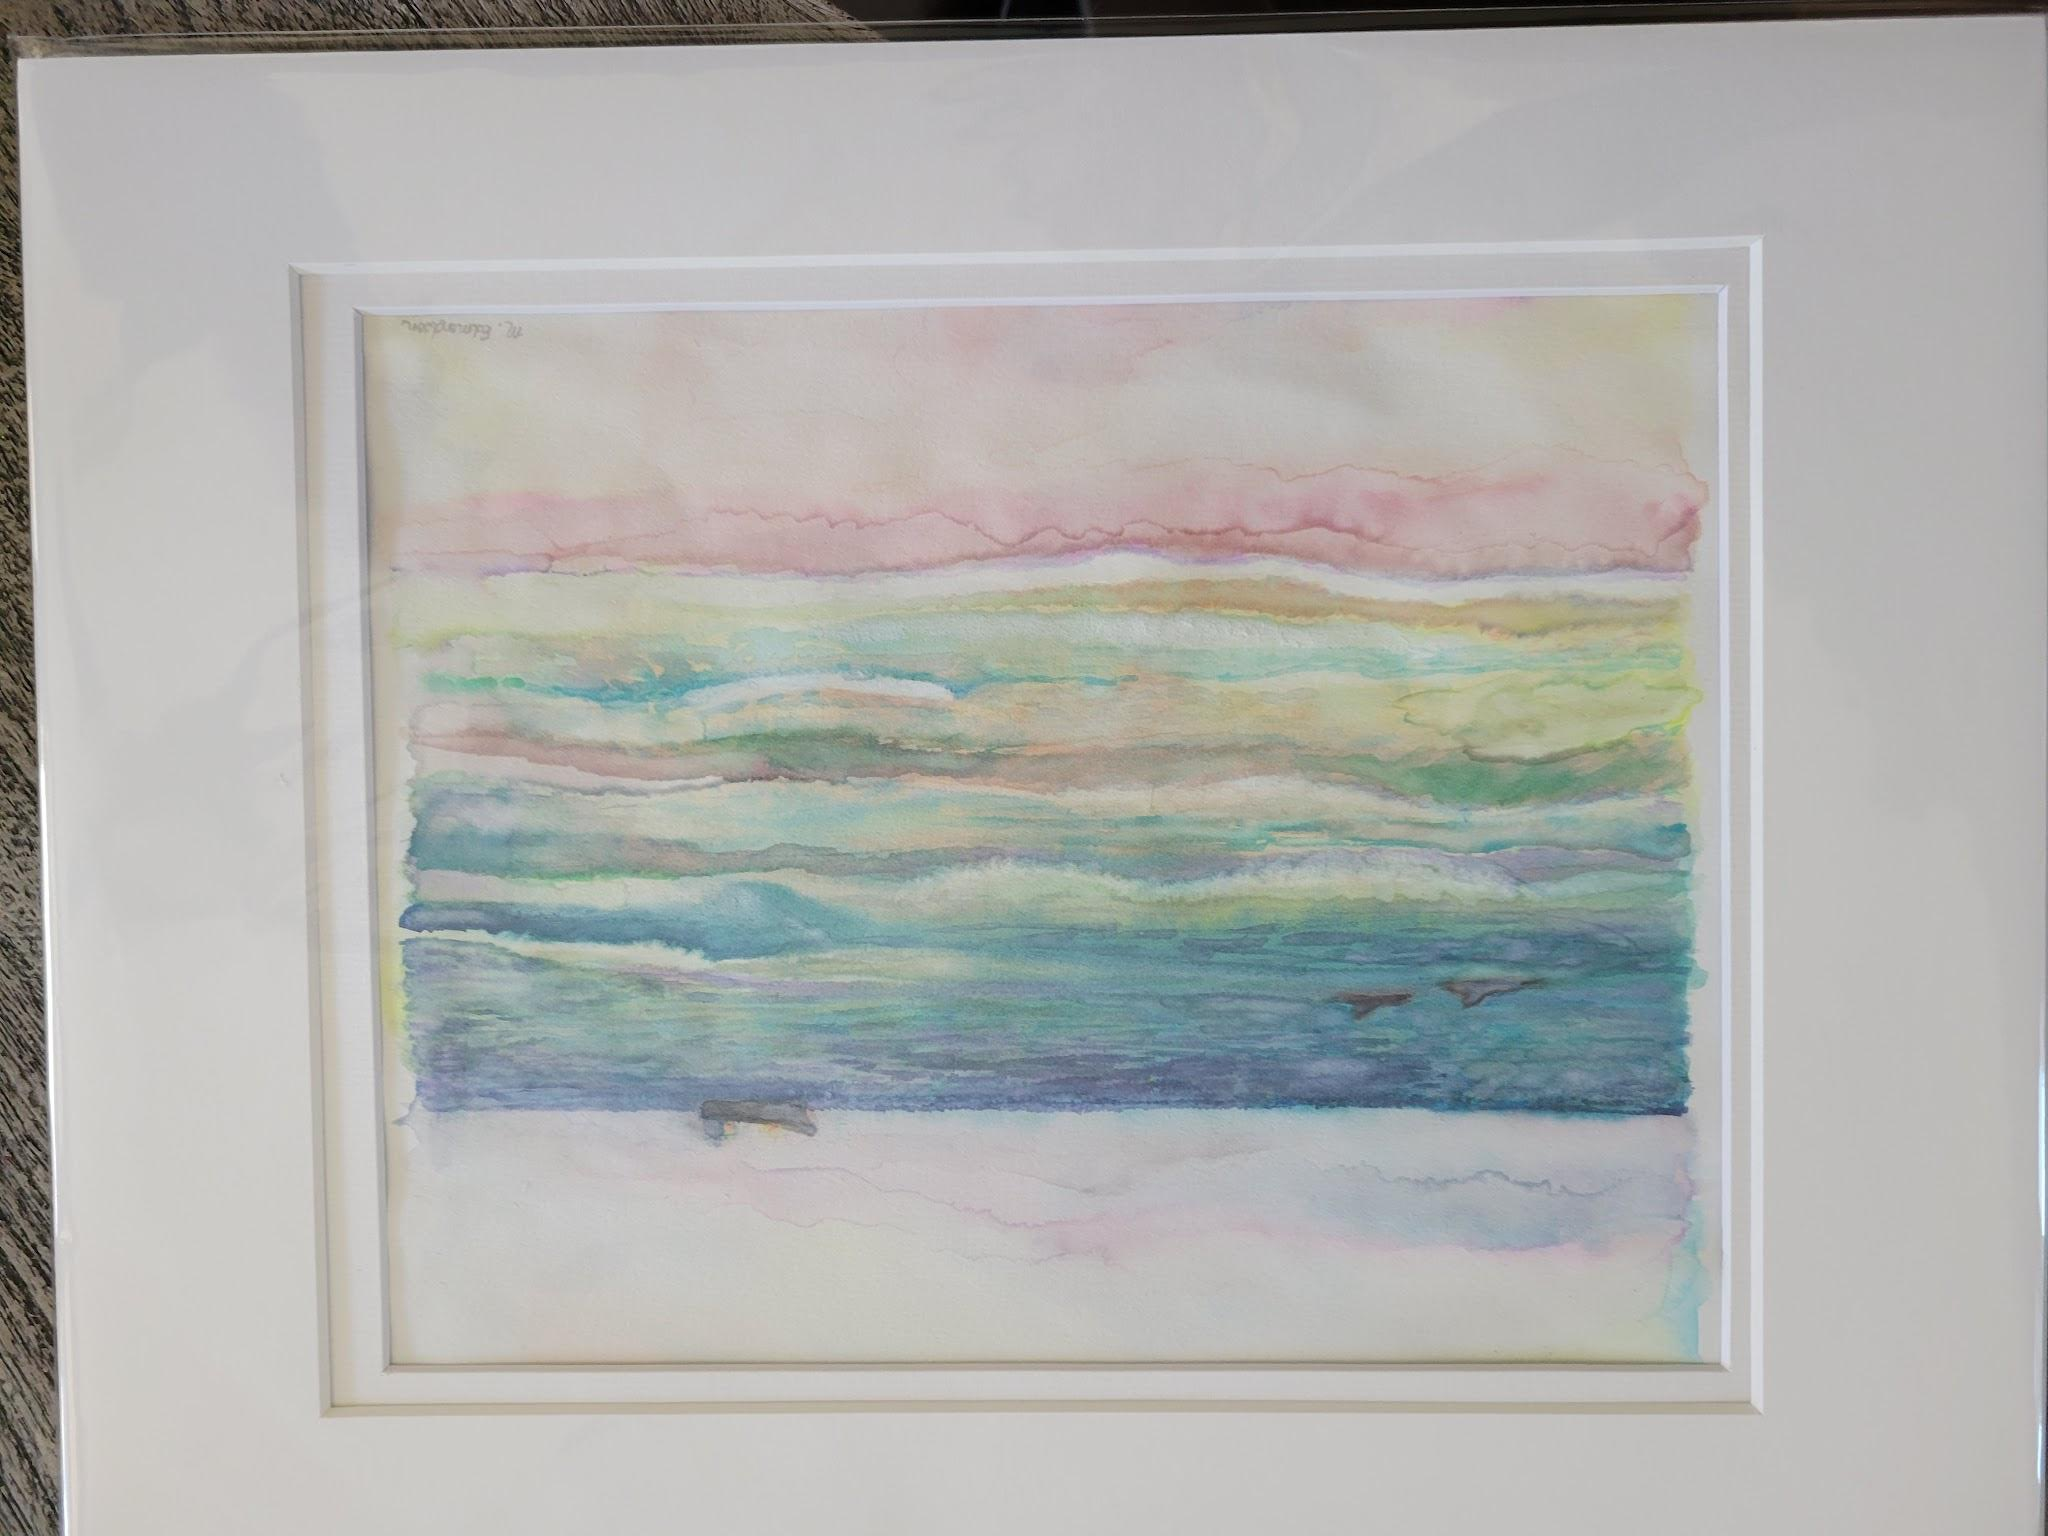
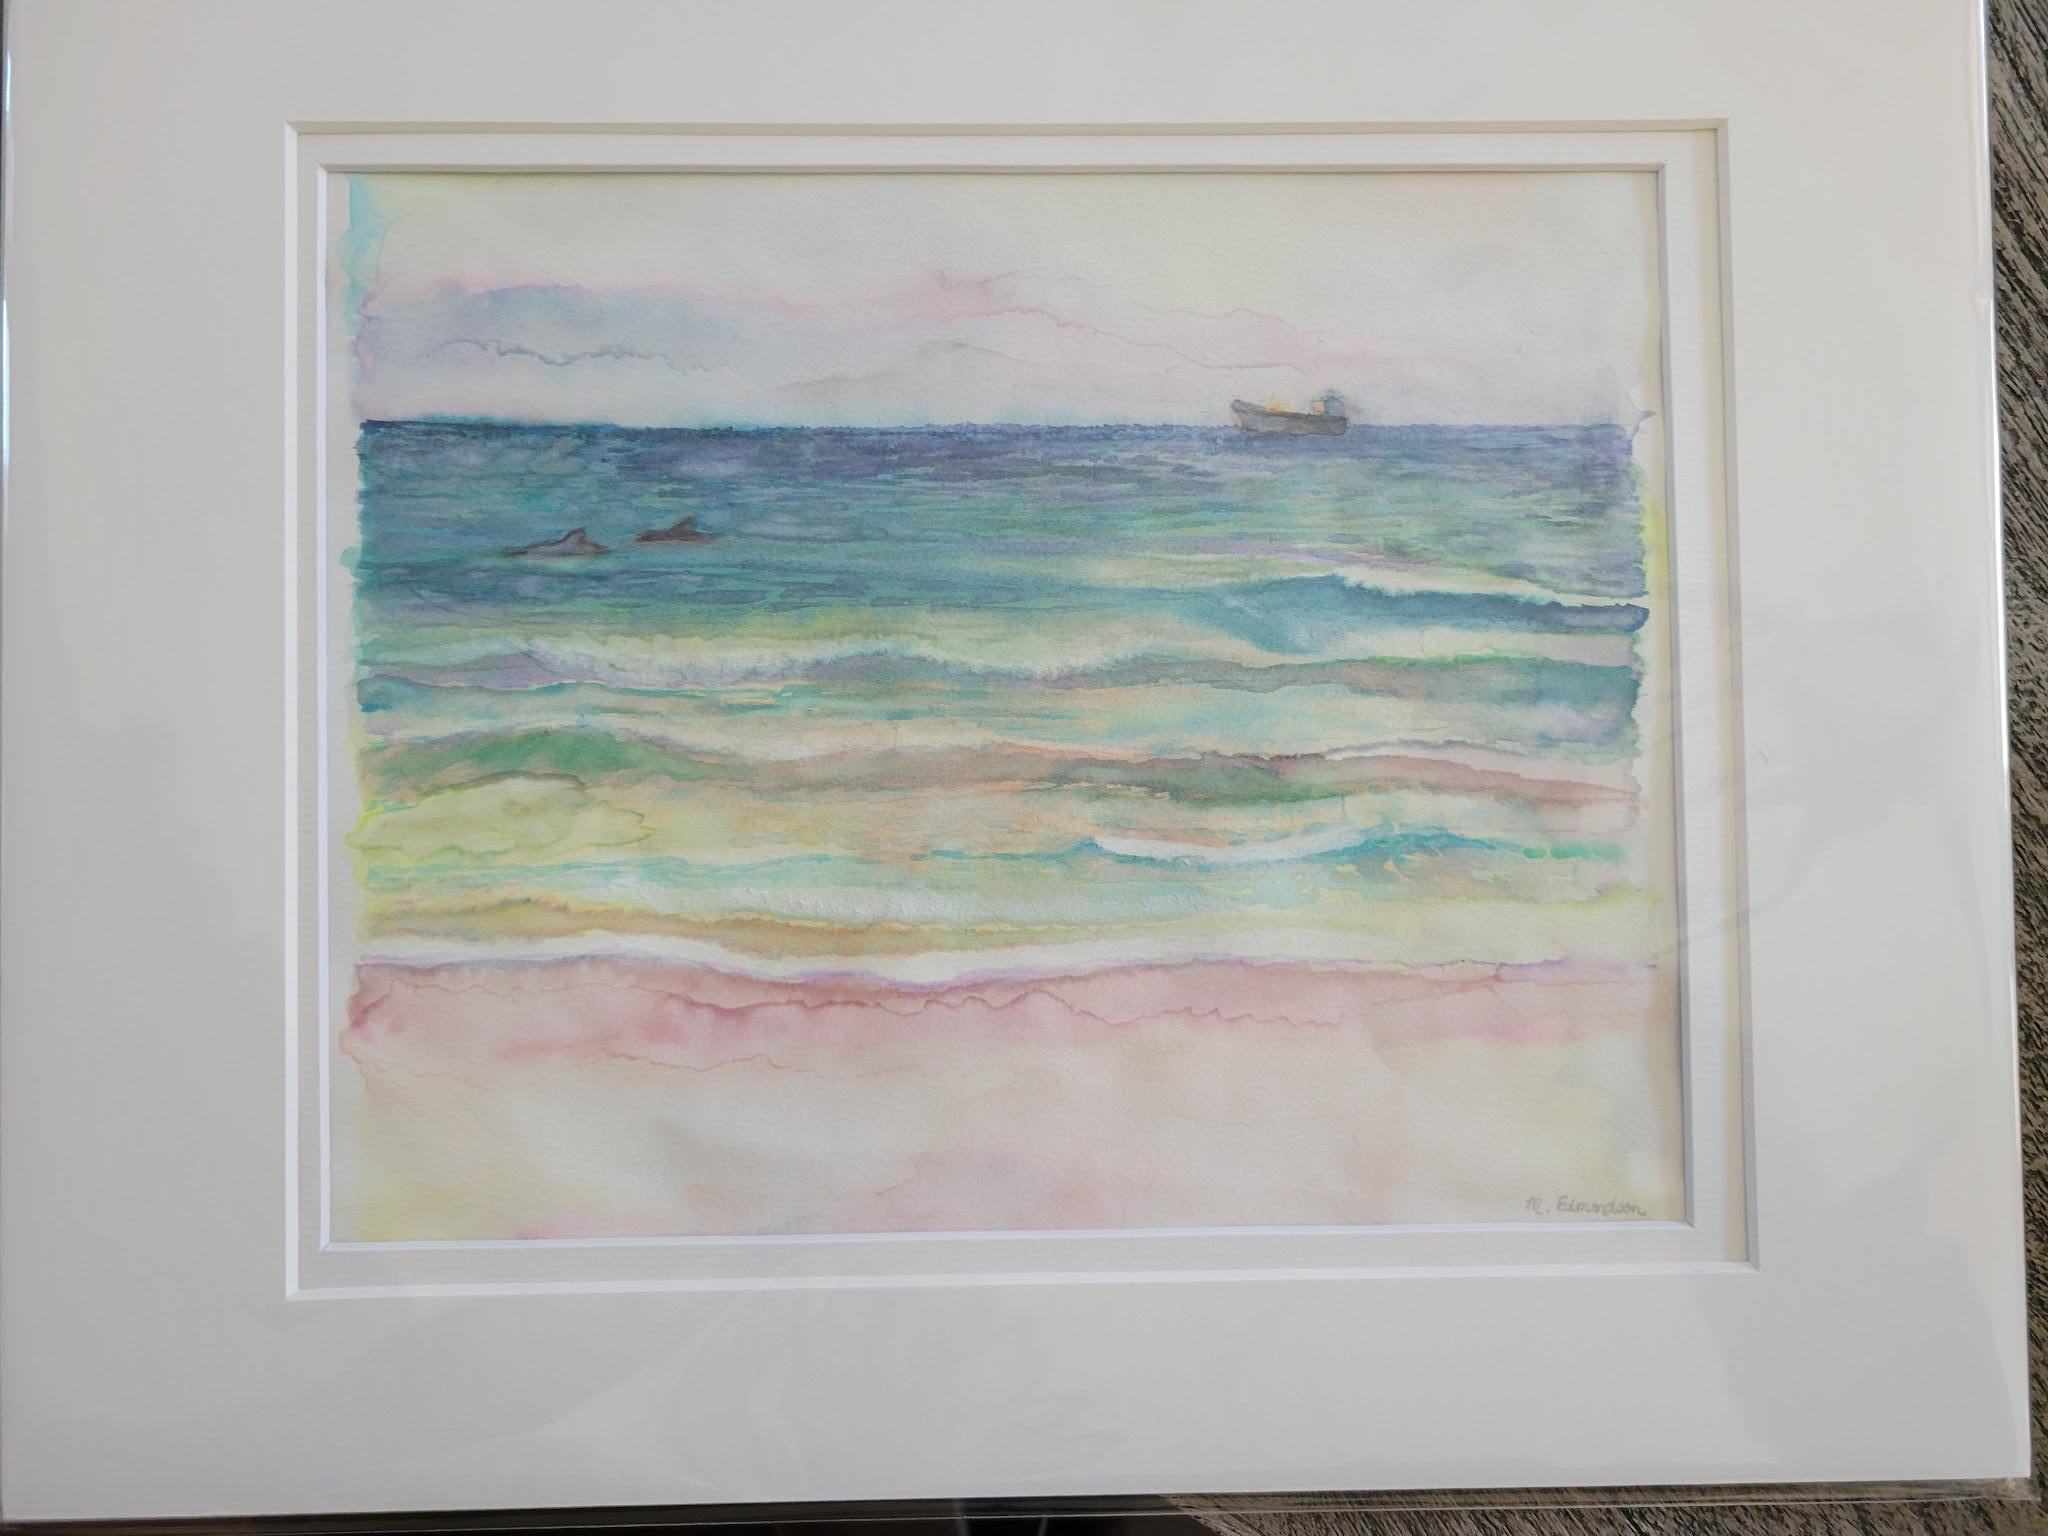
Fix About section text, Dolphin Watch orientation, image paths
- AboutSplitBlock: changed "Meet the Artists / Two working artists" to
  "Meet the Artist" with Margaret's real bio from her documents
- Fixed fallback image to Hot Air_1.jpg (actual existing file)
- Rotated Dolphin Watch.jpg 180 degrees to correct orientation
- Removed .next build artifacts from public folder

diff --git a/src/components/blocks/AboutSplitBlock.tsx b/src/components/blocks/AboutSplitBlock.tsx
@@ -16,9 +16,9 @@ interface AboutSplitConfig {
 
 export default function AboutSplitBlock({ config }: { config: Record<string, unknown>; variant?: string }) {
   const c = config as unknown as AboutSplitConfig
-  const imageUrl = c.image_url || '/Margaret Edmondson/ARTWORK/Custom Portrait Options/image1.jpg'
-  const heading = c.heading || 'Meet the Artists'
-  const body = c.body_html || 'Two working artists with a passion for mixed media, oil painting, and sharing the joy of creating. From our studio to your walls — every piece carries a story.'
+  const imageUrl = c.image_url || '/Margaret Edmondson/ARTWORK/Cactuses/Hot Air_1.jpg'
+  const heading = c.heading || 'Meet the Artist'
+  const body = c.body_html || '<p>Margaret Edmondson is a Texas-based artist with a BS in Art Education from Murray State University and an MFA in Painting from the Savannah College of Art and Design. Her work captures the beauty she sees around her — cattle and wild sunflowers in Texas, the captivating saguaro cactuses of Arizona, and beach scenes from family vacations to Alabama and California.</p><p>Recently, she has been experimenting with textures, printmaking, text, and sewing in mixed media collages. Her motto: "Do something creative at least once a day."</p>'
   const linkText = c.link_text || 'Our Story'
   const linkUrl = c.link_url || '/about'
   const imageSide = c.image_side || 'left'
